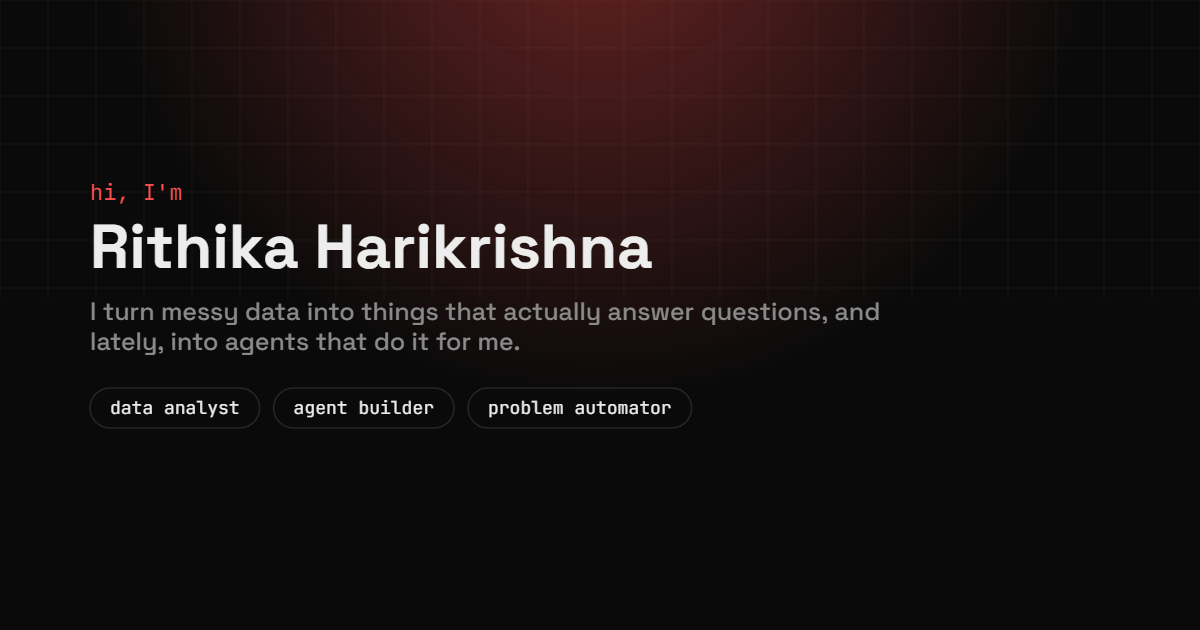
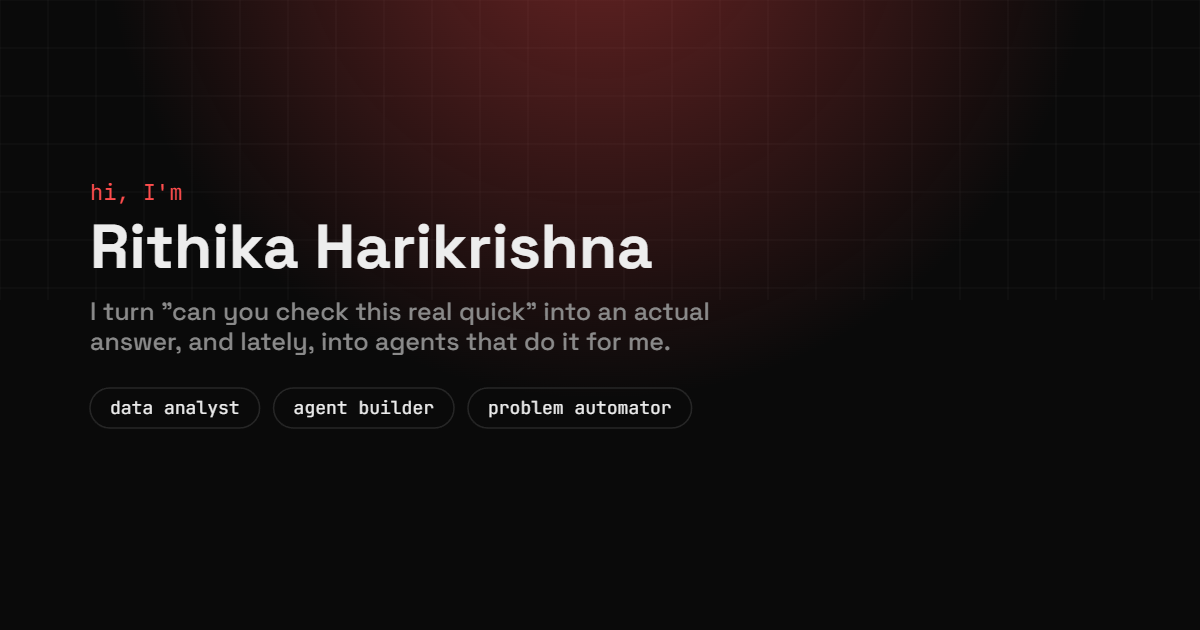
Replace overused 'messy data' hero line, update OG image to match
Same cliche problem as the About hook: "turn messy data into
insights" is genre boilerplate at this point. New line keeps the
second half (into agents that do it for me) and replaces the first
clause with something more specific and personal. Regenerated
og-image.png so the social preview card matches instead of showing
the retired line.

Changed region(s): [[0.0617, 0.4825, 0.74, 0.573]]

diff --git a/src/components/Hero.jsx b/src/components/Hero.jsx
@@ -62,8 +62,8 @@ export default function Hero() {
         transition={{ duration: 0.7, delay: 0.3 }}
         className="mt-7 max-w-xl text-balance text-lg text-muted sm:text-xl"
       >
-        I turn messy data into things that actually answer questions,
-        and lately, into agents that do it for me.
+        I turn &quot;can you check this real quick&quot; into an actual
+        answer, and lately, into agents that do it for me.
       </motion.p>
 
       <motion.div
